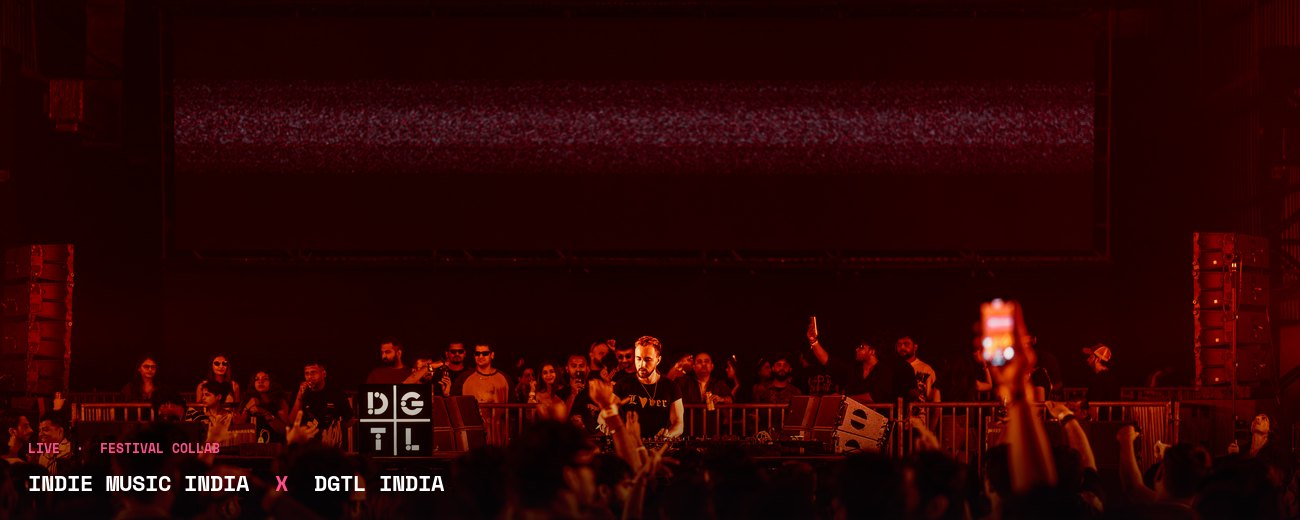
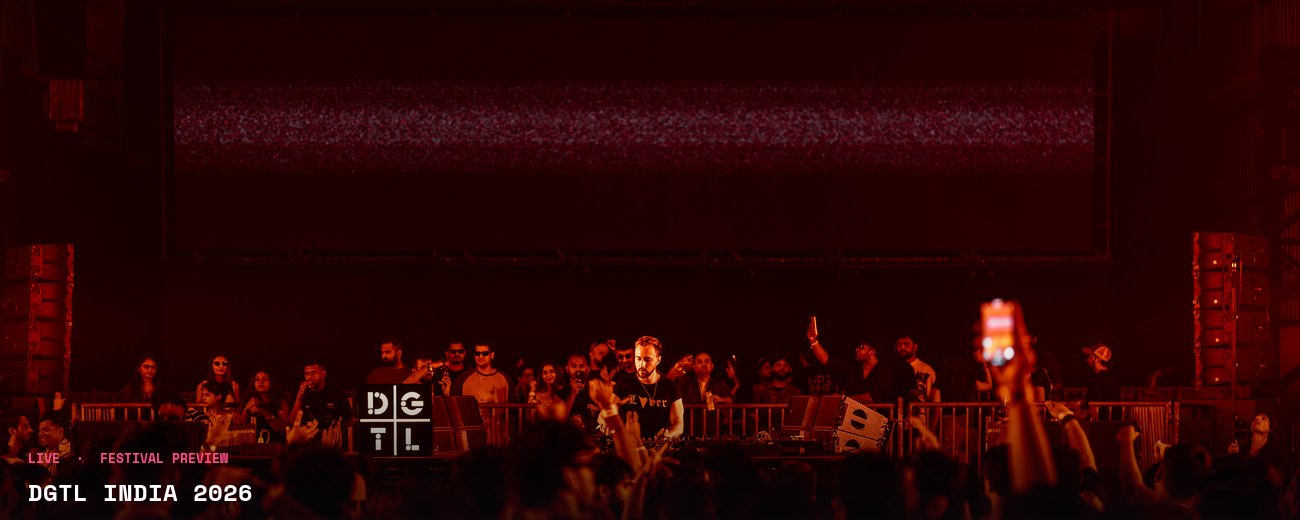
Drop Indie Music India branding from DGTL hero image
Image now reads just "DGTL INDIA 2026", not a collab lockup.

Changed region(s): [[0.0, 0.8308, 0.3385, 0.9846]]

diff --git a/live/dgtl-india-2026/index.html b/live/dgtl-india-2026/index.html
@@ -70,7 +70,7 @@ nav.js-primnav a{font-size:22px!important;font-weight:700!important;padding:14px
   <nav class="js-primnav"><a class="tab" href="/">Home</a></nav>
   <div class="page">
     <div class="crumb"><a href="/">Home</a> › <a href="/live/">Live</a> › DGTL India 2026</div>
-    <div class="g-hero"><img src="/assets/live-heroes/dgtl-india-2026.jpg" alt="Indie Music India x DGTL India: crowd and DJ booth from a past DGTL India edition" width="1300" height="520" /></div>
+    <div class="g-hero"><img src="/assets/live-heroes/dgtl-india-2026.jpg" alt="DGTL India 2026: crowd and DJ booth from a past DGTL India edition" width="1300" height="520" /></div>
     <div class="g-eyebrow">Live · Festival preview</div>
     <h1>DGTL India 2026: Bengaluru &amp; Goa, November 13&ndash;15</h1>
     <p class="g-lead">The international electronic festival returns for its sixth Indian edition, with two city experiences back to back, and a first-ever landing in Goa.</p>
